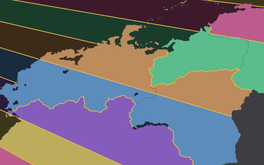
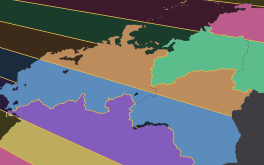
Thumbnails match the map modes; Terrain borders off by default; contours off by default

diff --git a/src/main.ts b/src/main.ts
@@ -382,8 +382,11 @@ new (L.Control.extend({
 // What the map shows, as one record: which of the three maps it is, and which
 // switches are on. A map can rule a switch out (Time Zones has no borders,
 // only Terrain has contour lines, only Time Zones has day and night) without touching it, so going back to a map
-// brings back exactly what was on before. Read during the first render, so it
-// has to be resolved before any of it runs.
+// brings back exactly what was on before. Borders are kept twice, once for
+// Terrain and once for the rest: Terrain starts with them off and the switch
+// still works there, and turning them on or off on one map leaves the other as
+// it was. Read during the first render, so it has to be resolved before any of
+// it runs.
 
 type MapMode = 'political' | 'terrain' | 'zones'
 const MAP_MODES: MapMode[] = ['political', 'terrain', 'zones']
@@ -393,6 +396,7 @@ interface Settings {
   relief: boolean
   daylight: boolean
   borders: boolean
+  terrainBorders: boolean
   rivers: boolean
   contours: boolean
   territories: boolean
@@ -402,14 +406,19 @@ interface Settings {
 }
 
 const SETTINGS_KEY = 'avium-settings'
+// Bumped when a default changes and saved entries should take it: 2 (16 Nov
+// 2026) turned contour lines off by default, and every entry before it had
+// saved the old default of on
+const SETTINGS_VERSION = 2
 
 const settings: Settings = {
   mode: 'political',
   relief: true,
   daylight: false,
   borders: true,
+  terrainBorders: false,
   rivers: true,
-  contours: true,
+  contours: false,
   territories: true,
   water: true,
   cities: true,
@@ -423,7 +432,9 @@ const settings: Settings = {
 // Night as Time Zones with it on, and one on Night Lights as the political map.
 try {
   const saved = JSON.parse(localStorage.getItem(SETTINGS_KEY) ?? '{}')
+  const old = !(typeof saved?.v === 'number' && saved.v >= SETTINGS_VERSION)
   for (const k of Object.keys(settings) as (keyof Settings)[]) {
+    if (old && k === 'contours') continue
     if (k !== 'mode' && typeof saved?.[k] === 'boolean') settings[k] = saved[k]
   }
   if (MAP_MODES.includes(saved?.mode)) settings.mode = saved.mode
@@ -448,7 +459,7 @@ try {
 
 function saveSettings() {
   try {
-    localStorage.setItem(SETTINGS_KEY, JSON.stringify(settings))
+    localStorage.setItem(SETTINGS_KEY, JSON.stringify({ ...settings, v: SETTINGS_VERSION }))
   } catch {
     // private mode or a full quota; the session still works, it just forgets
   }
@@ -470,8 +481,13 @@ const modeAllows = {
   stations: (_m: MapMode) => true,
 }
 
-function shows(k: keyof typeof modeAllows): boolean {
-  return settings[k] && modeAllows[k](settings.mode)
+// The setting a switch stands for on the current map: only Borders has two
+type Switch = keyof typeof modeAllows
+const settingKey = (k: Switch): keyof Settings =>
+  k === 'borders' && settings.mode === 'terrain' ? 'terrainBorders' : k
+
+function shows(k: Switch): boolean {
+  return (settings[settingKey(k)] as boolean) && modeAllows[k](settings.mode)
 }
 
 // --- Labels ---
@@ -4949,7 +4965,7 @@ function renderMapSheet() {
     const row = mapSheet.querySelector<HTMLElement>(`[data-row="${k}"]`)!
     const box = row.querySelector('input')!
     const allowed = modeAllows[k](settings.mode)
-    box.checked = settings[k]
+    box.checked = settings[settingKey(k)] as boolean
     box.disabled = !allowed
     row.classList.toggle('is-locked', !allowed)
   }
@@ -4981,7 +4997,7 @@ mapSheet.addEventListener('change', e => {
   }
   const k = box.dataset.set as keyof typeof modeAllows | undefined
   if (!k) return
-  settings[k] = box.checked
+  ;(settings[settingKey(k)] as boolean) = box.checked
   saveSettings()
   applySettings()
 })

diff --git a/topo/scripts/thumbs.py b/topo/scripts/thumbs.py
@@ -1,12 +1,42 @@
-"""Mode-tile thumbnails for the two ground maps, cut from the finished drawings around Shinkeisei."""
-import sys, csv; sys.path.insert(0, __import__("os").path.dirname(__file__))
+"""Mode-tile thumbnails for the Map sheet: Political, Terrain and Time Zones, all cut from one box (6000 grid) so the
+three tiles show the same place at the same scale, each drawn as the app draws that map with its default switches:
+Political is the shaded relief with the borders at 0.75 and the rivers, Terrain the terrain with the rivers (borders
+and contour lines start off there), Time Zones the zone layer over the black page. Run after the layers change."""
+import sys; sys.path.insert(0, __import__("os").path.dirname(__file__))
 from common import *
-rows = [r for r in csv.DictReader(open(os.path.join(MAP, "src", "data", "coordinates.tsv"), encoding="utf-8"), delimiter="\t") if r["NAME"] == "Shinkeisei"]
-cx, cy = float(rows[0]["X"]) * 2, float(rows[0]["Y"]) * 2
-W, H, K = 264, 165, 6
-x0 = int(cx - W * K / 2); y0 = int(cy - H * K / 2)
-for name in ("relief", "terrain"):
-    a = read_png(os.path.join(LAYERS, name + ".png"))[y0:y0 + H * K, x0:x0 + W * K, :3].astype(np.float32)
-    t = a.reshape(H, K, W, K, 3).mean(axis=(1, 3))
-    write_png(os.path.join(MAP, "src", "assets", "map-modes", name + ".png"), t.astype(np.uint8))
-    print("thumb", name, t.shape)
+from scipy import ndimage as ndi
+
+W, H = 264, 165                       # the tile's own size
+X0, Y0, K = 2150.0, 381.0, 5.45       # the box: the Nichirin coast as the Political tile has shown it since October
+
+def shrink(a, k, x0, y0):
+    """Area mean of a k x k footprint per thumbnail px, box corner (x0, y0) in a's own px"""
+    a = a.astype(np.float32); out = np.empty((H, W, a.shape[2]), np.float32)
+    ys = y0 + (np.arange(H) + 0.5) * k - 0.5; xs = x0 + (np.arange(W) + 0.5) * k - 0.5
+    yy, xx = np.meshgrid(ys, xs, indexing="ij")
+    r = slice(int(y0) - 2 * int(k), int(y0 + H * k) + 2 * int(k)); c = slice(int(x0) - 2 * int(k), int(x0 + W * k) + 2 * int(k))
+    for ch in range(a.shape[2]):
+        f = ndi.uniform_filter(a[r, c, ch], int(round(k)))
+        out[..., ch] = ndi.map_coordinates(f, [yy - r.start, xx - c.start], order=1)
+    return out
+
+def over(under, top, opacity=1.0):
+    al = top[..., 3:4].astype(np.float32) / 255 * opacity
+    return under.astype(np.float32) * (1 - al) + top[..., :3].astype(np.float32) * al
+
+def crop12(name):
+    a = read_png(os.path.join(LAYERS, name)); r = slice(int(2 * Y0) - 40, int(2 * (Y0 + H * K)) + 40)
+    c = slice(int(2 * X0) - 40, int(2 * (X0 + W * K)) + 40); return a[r, c], r.start, c.start
+
+rv, ry, rx = crop12("rivers.PNG")
+bd = read_png(os.path.join(LAYERS, "borders.PNG")).repeat(2, 0).repeat(2, 1)[ry:ry + rv.shape[0], rx:rx + rv.shape[1]]
+for name, ground, borders in (("political", "relief.png", 0.75), ("terrain", "terrain.png", 0.0)):
+    g = crop12(ground)[0][..., :3]
+    img = over(g, bd, borders) if borders else g.astype(np.float32)
+    img = over(img, rv)
+    t = shrink(img, 2 * K, 2 * X0 - rx, 2 * Y0 - ry)
+    write_png(os.path.join(MAP, "src", "assets", "map-modes", name + ".png"), np.clip(np.round(t), 0, 255).astype(np.uint8))
+z = read_png(os.path.join(LAYERS, "zones.png"))
+t = shrink(over(np.zeros(z.shape[:2] + (3,), np.uint8), z), K, X0, Y0)
+write_png(os.path.join(MAP, "src", "assets", "map-modes", "zones.png"), np.clip(np.round(t), 0, 255).astype(np.uint8))
+print("thumbs: political, terrain, zones at %dx%d from x %d-%d, y %d-%d (6000 grid)" % (W, H, X0, X0 + W * K, Y0, Y0 + H * K))
